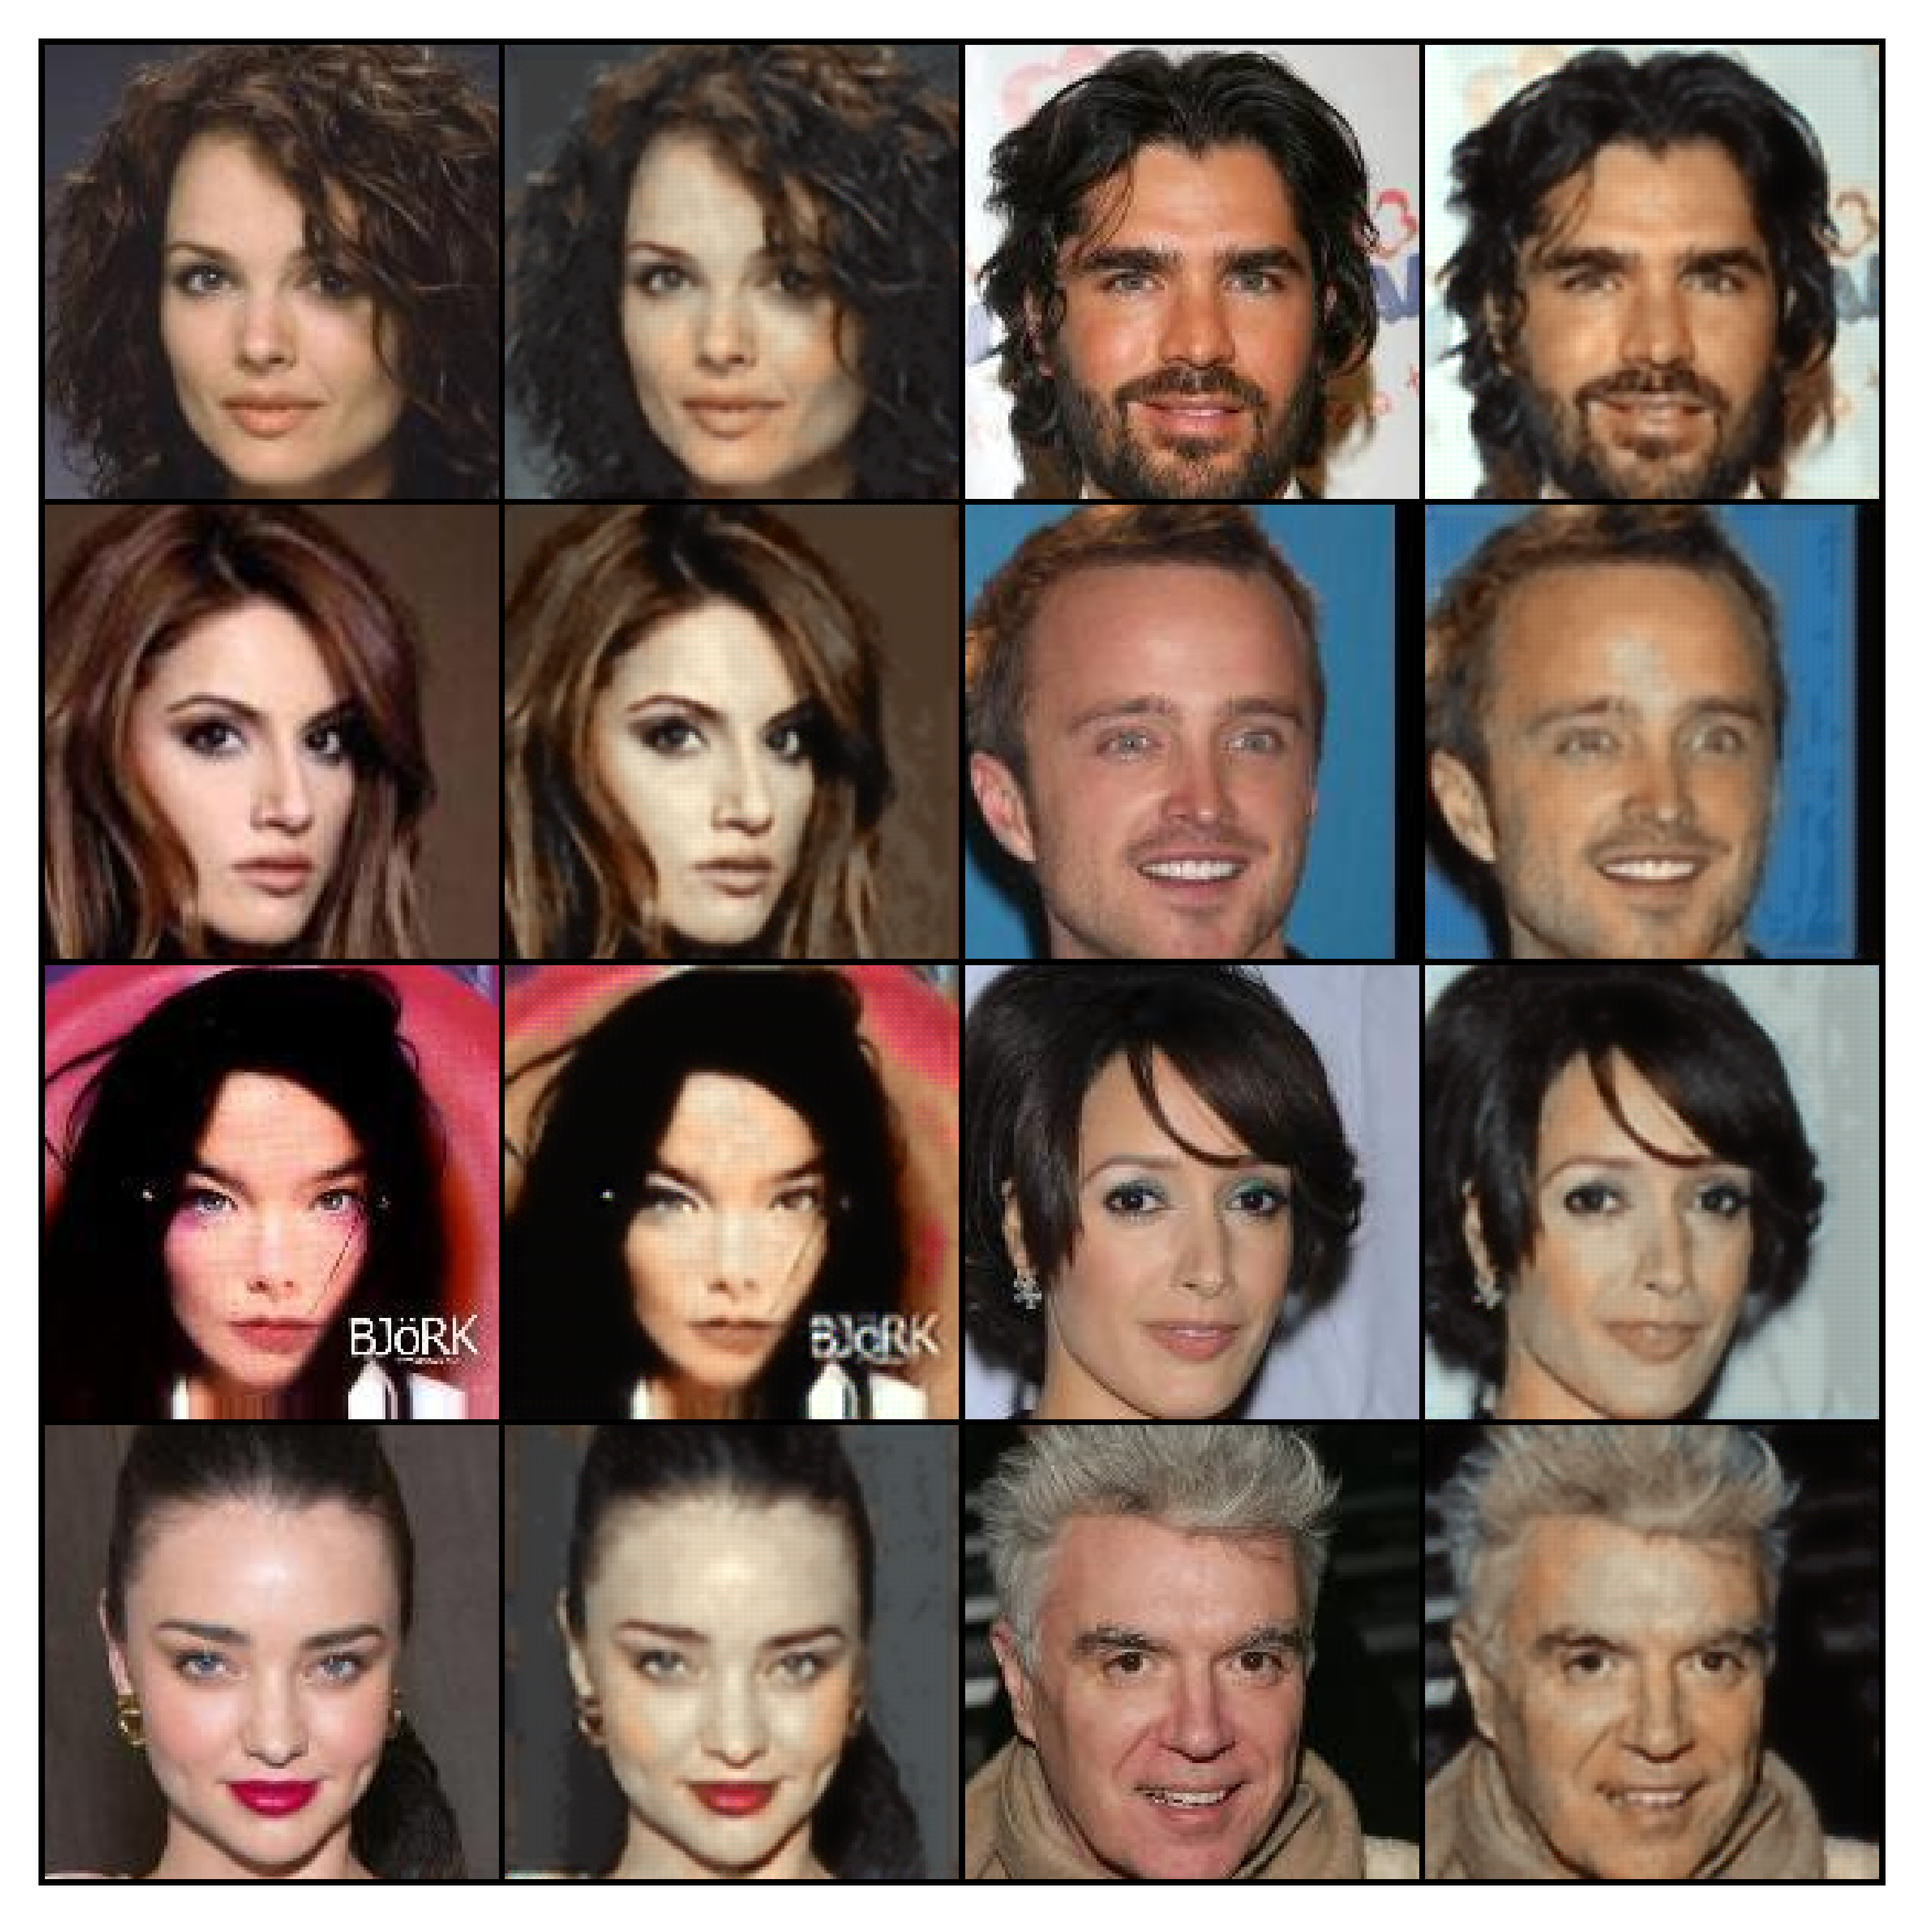
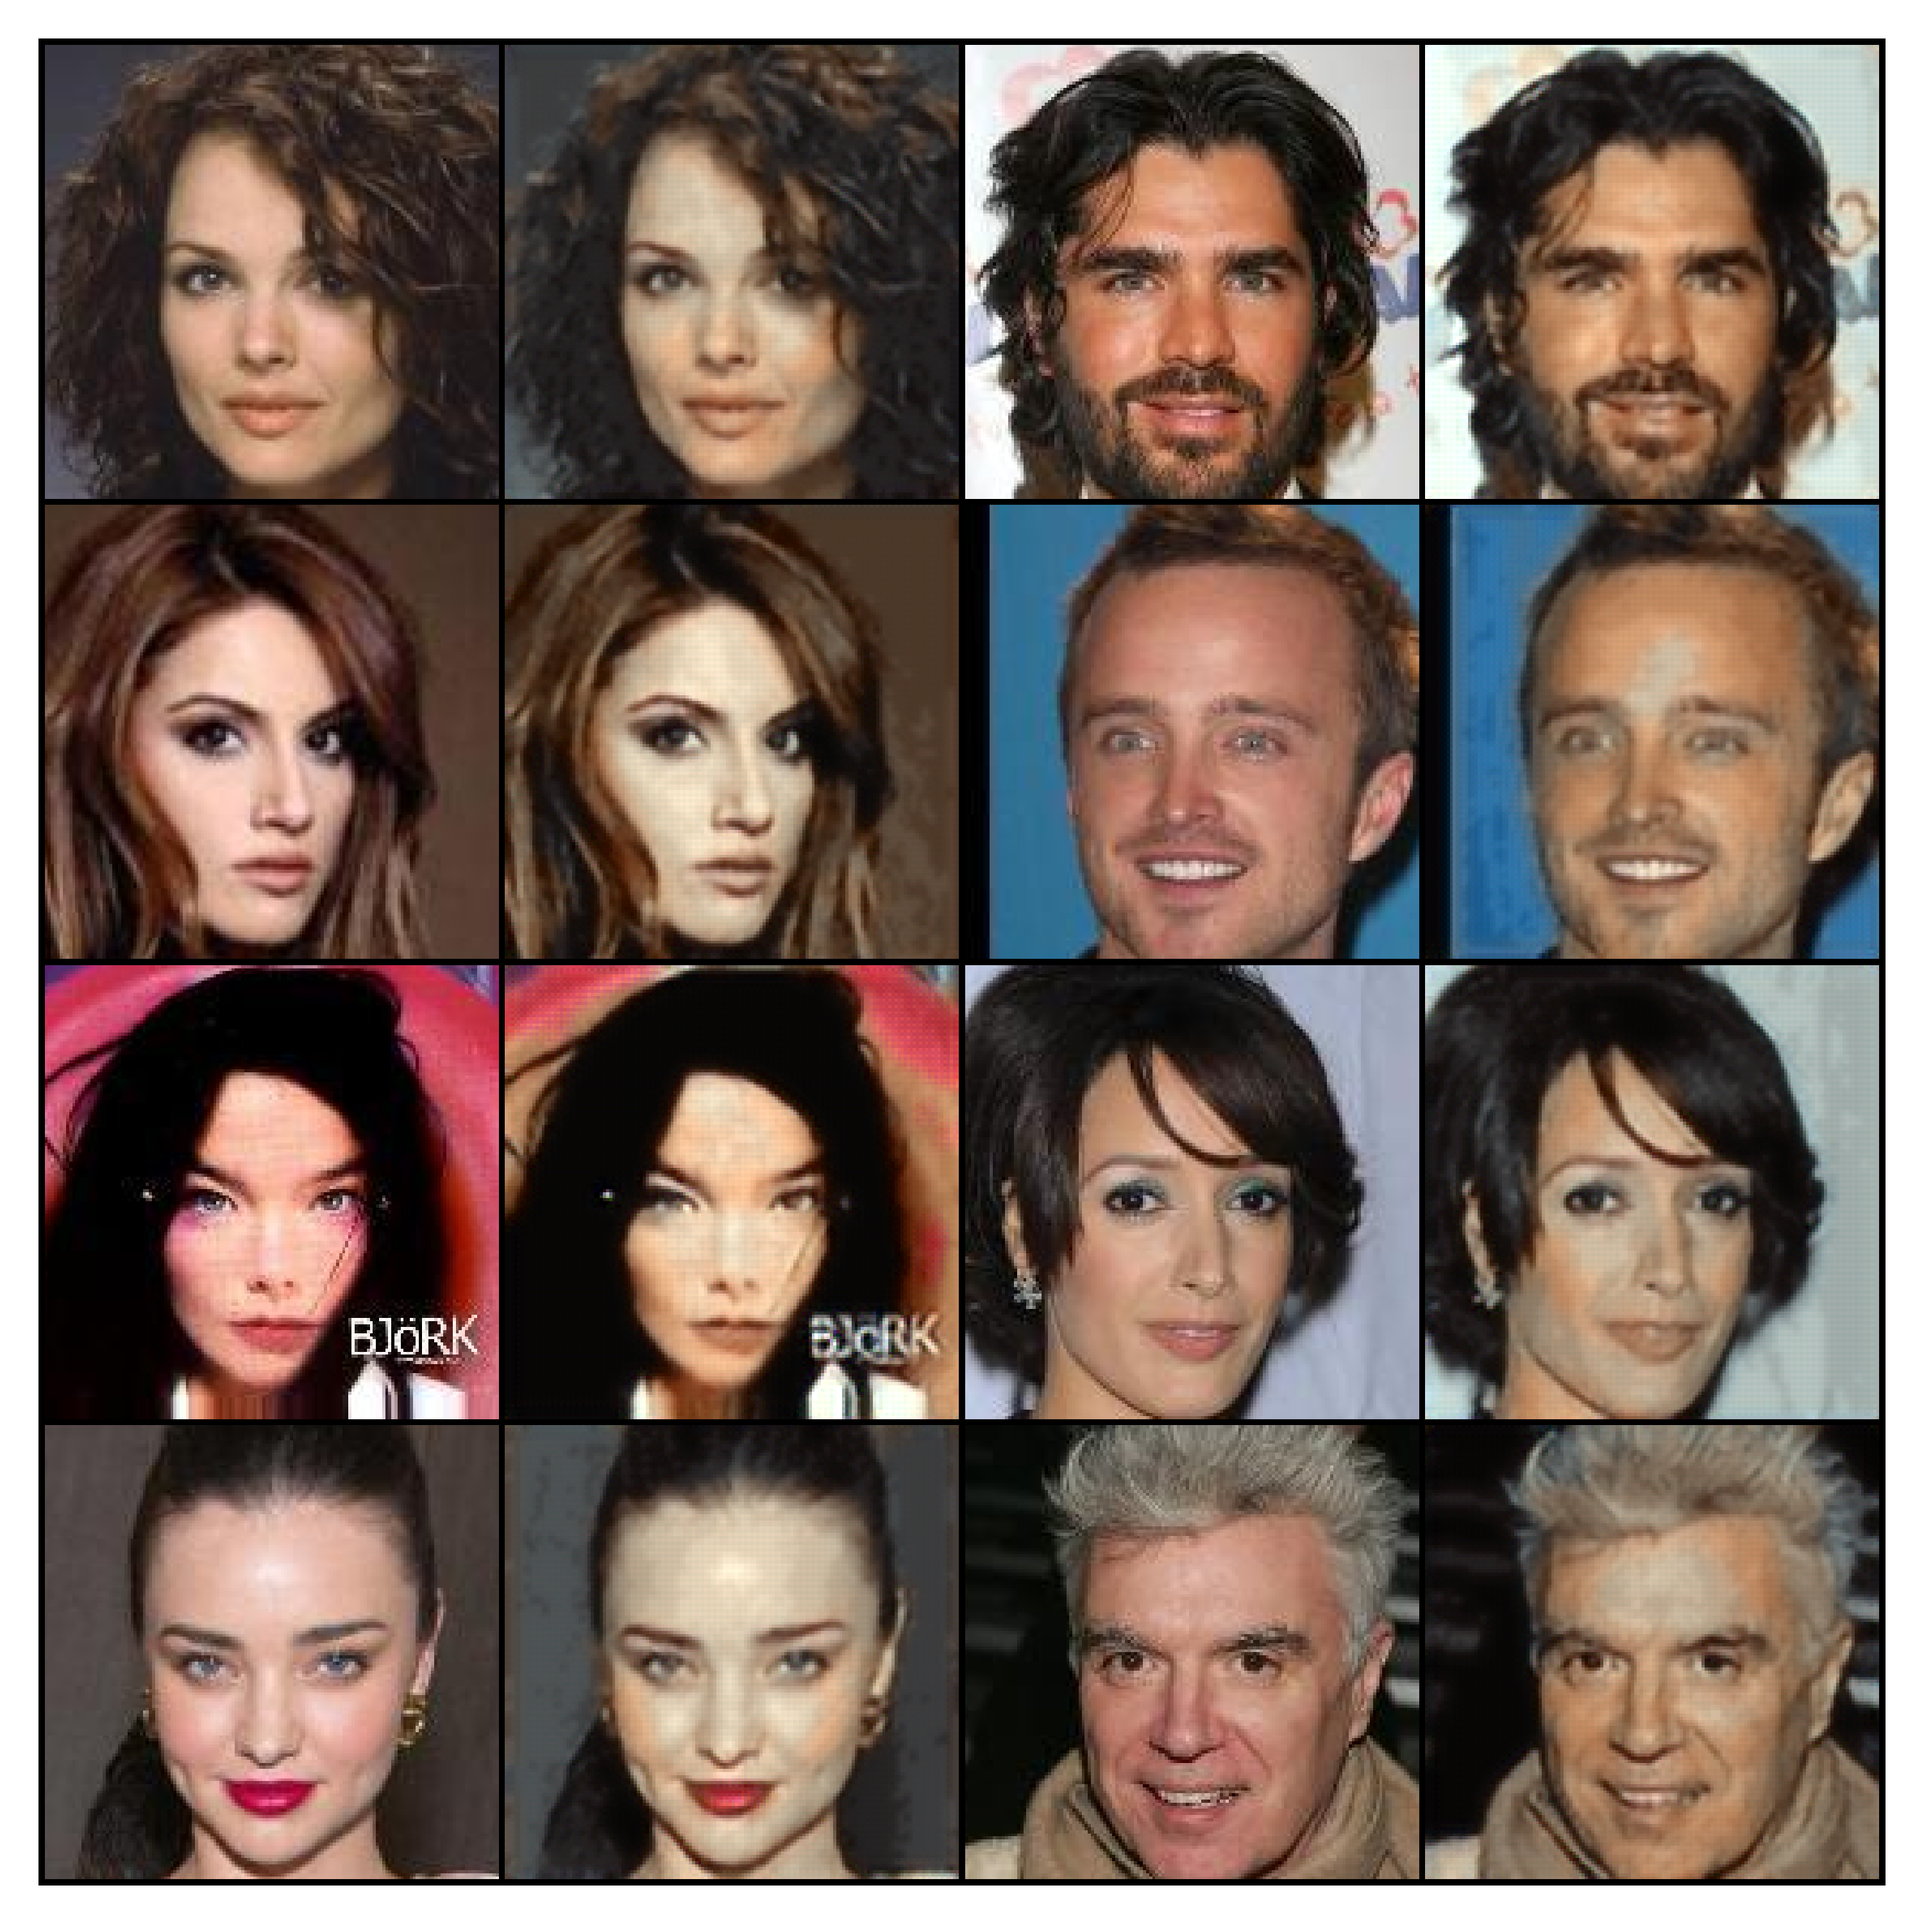
made sure all recons are facing the same direction

Changed region(s): [[0.031, 0.713, 0.992, 0.992], [0.496, 0.248, 0.992, 0.496]]

diff --git a/experiments/evaluate_checkpoint.py b/experiments/evaluate_checkpoint.py
@@ -5,6 +5,7 @@ import hydra
 from hydra.core.hydra_config import HydraConfig
 from omegaconf import DictConfig, OmegaConf
 import torch
+import torchvision
 from utils import count_uniques, reconstruct_images
 from model import Model
 from data_modules import (
@@ -70,39 +71,49 @@ def main(cfg: DictConfig) -> None:
     model = model.to("cuda" if torch.cuda.is_available() else "cpu")
     model.eval()
 
-    grid = reconstruct_images(dataloader=data.test_dataloader, model=model)
-    plt.imshow(grid.cpu().permute(1, 2, 0))
-    plt.savefig(
-        os.path.join(
-            "reconstructions",
-            dataset_choice,
-            f"{quantizer_choice}.png",
-        ),
-        dpi=600,
-    )
-
     if "dense" in quantizer_choice:
         print(
             "The dense lattice assigns a quantization point per embedding"
             " vector. So the codebook is too large to count."
         )
-        return
+    else:
+        codebook_usage = count_uniques(
+            model=model,
+            dataloaders=[
+                data.train_dataloader,
+                data.val_dataloader,
+            ],
+        )
 
-    codebook_usage = count_uniques(
-        model=model,
-        dataloaders=[
-            data.train_dataloader,
-            data.val_dataloader,
-        ],
-    )
+        json_path = os.path.join(
+            "reconstructions",
+            dataset_choice,
+            f"{quantizer_choice}.json",
+        )
+        with open(json_path, "w") as json_file:
+            json.dump(codebook_usage, json_file)
 
-    json_path = os.path.join(
-        "reconstructions",
-        dataset_choice,
-        f"{quantizer_choice}.json",
+    for idx, transform in enumerate(data.transform.transforms):
+        if (
+            transform.__class__.__name__
+            == torchvision.transforms.RandomHorizontalFlip().__class__.__name__
+        ):
+            data.transform.transforms.pop(idx)
+    grid = reconstruct_images(dataloader=data.val_dataloader, model=model)
+    fig = plt.figure(frameon=False)
+    ax = plt.Axes(fig, [0.0, 0.0, 1.0, 1.0])
+    ax.set_axis_off()
+    fig.add_axes(ax)
+    ax.imshow(grid.cpu().permute(1, 2, 0))
+    fig.savefig(
+        os.path.join(
+            "reconstructions",
+            dataset_choice,
+            f"{quantizer_choice}.png",
+        ),
+        bbox_inches="tight",
+        dpi=600,
     )
-    with open(json_path, "w") as json_file:
-        json.dump(codebook_usage, json_file)
 
 
 if __name__ == "__main__":
